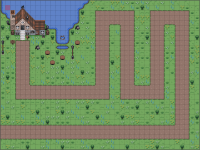
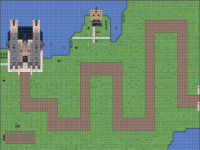
Redesign first map & states

diff --git a/States/MapSelectionState.cs b/States/MapSelectionState.cs
@@ -43,7 +43,7 @@ namespace PixelDefense.States
 
             chooseFirstMapButton = new Button(firstMapTexture, buttonFont)
             {
-                Position = new Vector2(100, 150),
+                Position = new Vector2(400, 250),
                 Text = "1",
                 
               
@@ -53,7 +53,7 @@ namespace PixelDefense.States
 
            chooseSecondMapButton = new Button(secondMapTexture, buttonFont)
             {
-                Position = new Vector2(350, 150),
+                Position = new Vector2(650, 250),
                 Text = "2",
                 
             };
@@ -63,7 +63,7 @@ namespace PixelDefense.States
 
             var chooseBackButton = new Button(buttonTexture, buttonFont)
             {
-                Position = new Vector2(250, 350),
+                Position = new Vector2(550, 450),
                 Text = "Back",
             };
 
@@ -84,7 +84,7 @@ namespace PixelDefense.States
                 button.Draw(gameTime, spriteBatch);
 
             string tempStr = "Choose your map";
-            spriteBatch.DrawString(textFont, tempStr, new Vector2(110, 95), Color.Black);
+            spriteBatch.DrawString(textFont, tempStr, new Vector2(420, 150), Color.Black);
         }
 
       

diff --git a/States/MenuState.cs b/States/MenuState.cs
@@ -25,7 +25,7 @@ namespace PixelDefense.States
 
             var newGameButton = new Button(buttonTexture, buttonFont)
             {
-                Position = new Vector2(250, 200),
+                Position = new Vector2(550, 350),
                 Text = "New Game",
             };
 
@@ -33,7 +33,7 @@ namespace PixelDefense.States
 
             var instructionsButton = new Button(buttonTexture, buttonFont)
             {
-                Position = new Vector2(250, 250),
+                Position = new Vector2(550, 400),
                 Text = "Instructions",
             };
 
@@ -41,7 +41,7 @@ namespace PixelDefense.States
 
             var quitGameButton = new Button(buttonTexture, buttonFont)
             {
-                Position = new Vector2(250, 300),
+                Position = new Vector2(550, 450),
                 Text = "Quit Game",
             };
 
@@ -63,7 +63,7 @@ namespace PixelDefense.States
                 button.Draw(gameTime, spriteBatch);
 
             string tempStr = "Pixel Defense";
-            spriteBatch.DrawString(textFont, tempStr, new Vector2(140, 120), Color.Black);
+            spriteBatch.DrawString(textFont, tempStr, new Vector2(450, 200), Color.Black);
 
         }
 

diff --git a/Game1.cs b/Game1.cs
@@ -28,8 +28,8 @@ namespace PixelDefense
         public MenuState menuState;
         public MouseState mouseState;
 
-        public int defaultWidth = 660;
-        public int defaultHeight = 500;
+        public int defaultWidth = 1280;
+        public int defaultHeight = 800;
 
         private State _currentState;
         private State _nextState;
@@ -58,7 +58,7 @@ namespace PixelDefense
             Content.RootDirectory = "Content";
 
            
-            //graphics.ToggleFullScreen();
+            graphics.ToggleFullScreen();
             graphics.ApplyChanges();
 
         }

diff --git a/States/GameState.cs b/States/GameState.cs
@@ -71,7 +71,7 @@ namespace PixelDefense.States
 
             var chooseSurrenderButton = new Button(buttonTexture, buttonFont)
             {
-                Position = new Vector2(480, 0),
+                Position = new Vector2(1110, 740),
                 Text = "Surrender",
             };
 
@@ -79,7 +79,7 @@ namespace PixelDefense.States
 
             var shopButton = new Button(buttonTexture, buttonFont)
             {
-                Position = new Vector2(320, 0),
+                Position = new Vector2(945, 740),
                 Text = "Shop",
             };
 

diff --git a/Engine/AnimationManager.cs b/Engine/AnimationManager.cs
@@ -26,7 +26,7 @@ namespace PixelDefense.Engine
         {
             spriteBatch.Draw(_animation.Texture,
                             _position,
-                             new Rectangle(_animation.CurrentFrame * _animation.FrameWidth,
+                             new Rectangle(_animation.CurrentFrame * _animation.FrameWidth + 50,
                                            0,
                                            _animation.FrameWidth,
                                            _animation.FrameHeight),

diff --git a/States/State.cs b/States/State.cs
@@ -37,7 +37,7 @@ namespace PixelDefense.States
 
             _maps = new List<Map>();
 
-            map1 = new Map(content, "Content/FinishedVersion.tmx");
+            map1 = new Map(content, "Content/Test.tmx");
             map2 = new Map(content, "Content/SecondMap.tmx");
         }
 
